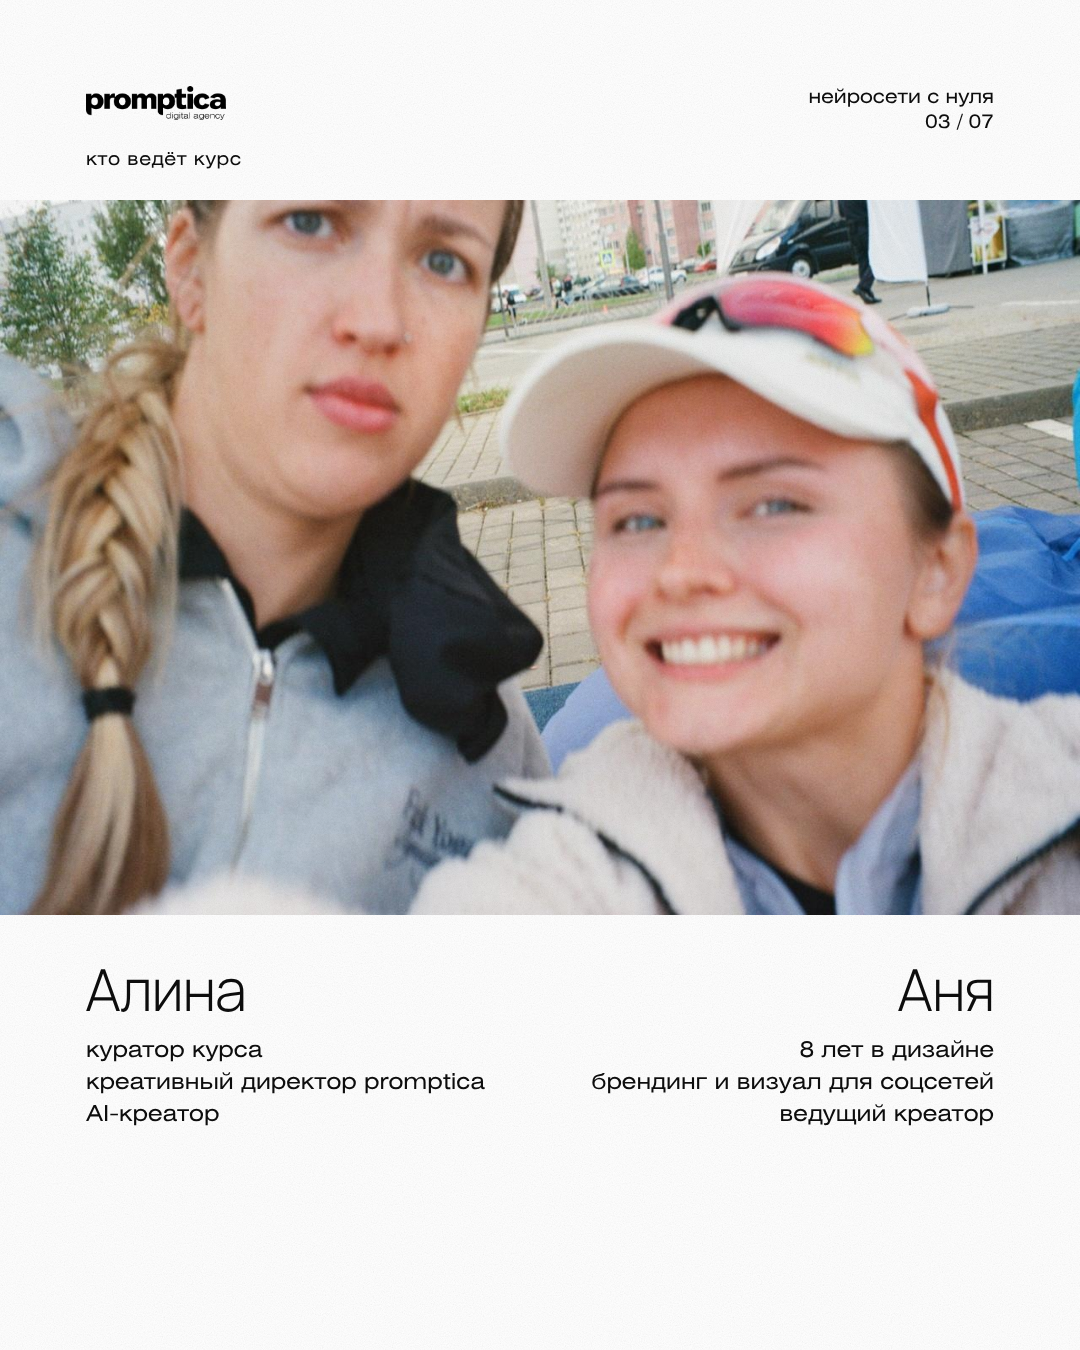
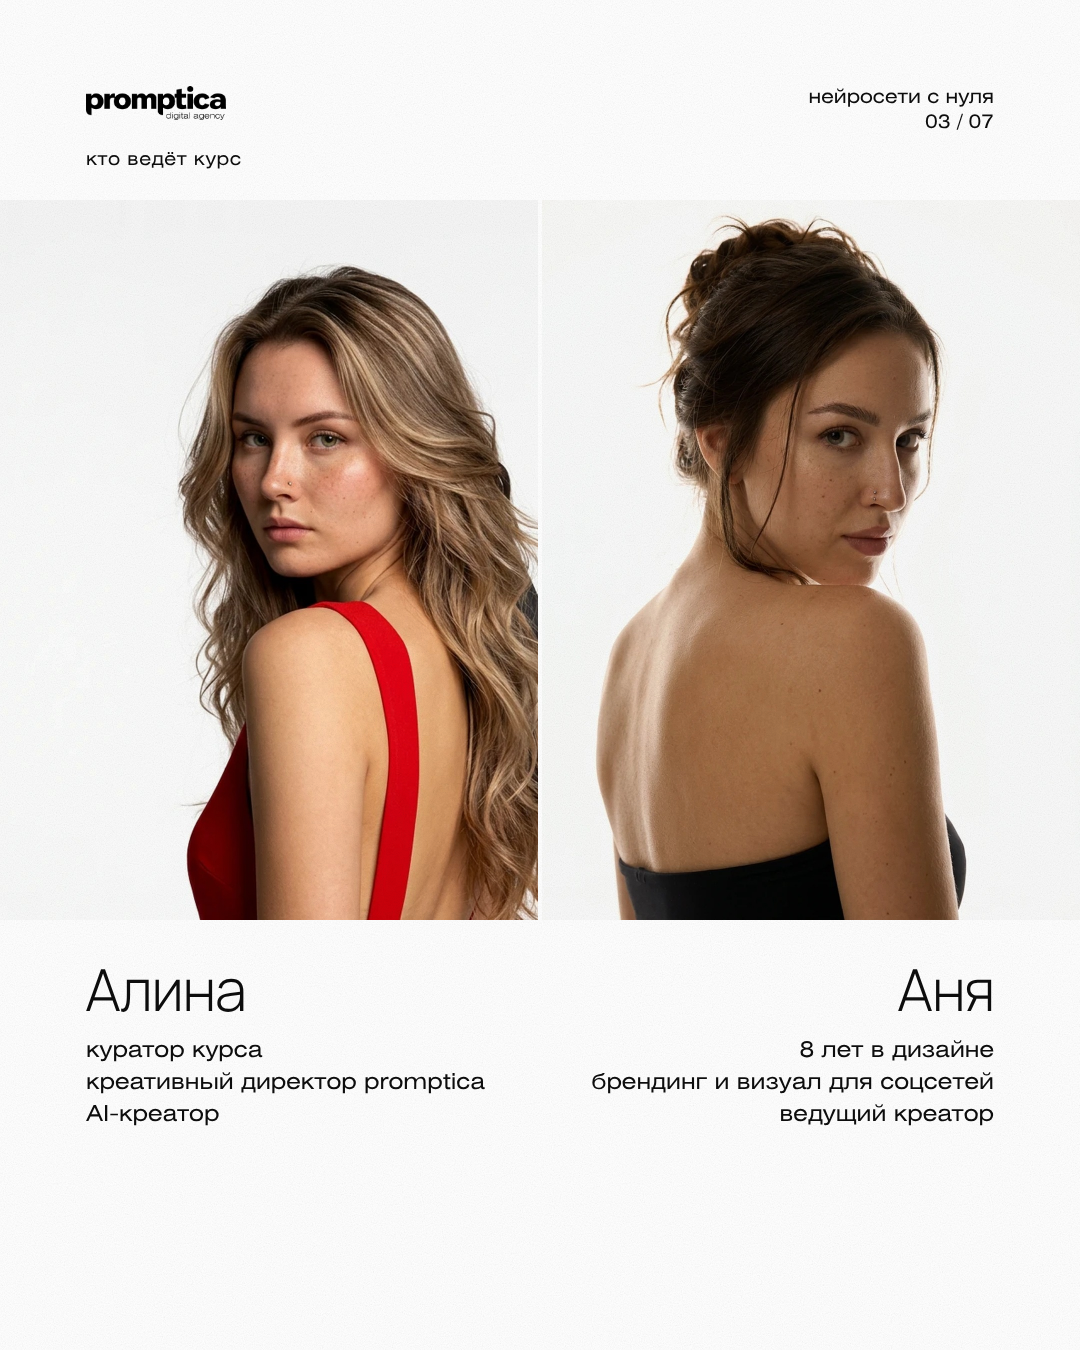
«Нейросети с нуля»: два портрета кураторов с выровненными головами (слайд 3)
Claude-Session: https://claude.ai/code/session_01V1NUh11xrVMcB1cs4GV2qz

diff --git a/carousels/promptica-course/03.html b/carousels/promptica-course/03.html
@@ -8,7 +8,8 @@
 <body>
   <div class="slide ">
     <div class="abs micro" style="left:86px;top:150px">кто ведёт курс</div>
-    <div class="ph" style="left:0px;top:200px;width:1080px;height:715px"><div class="hn">общее фото кураторов</div><img src="img/03-a.jpg" alt="" style="object-position:50% 40%" onerror="this.remove()"></div>
+    <div class="ph" style="left:0px;top:200px;width:538px;height:720px"><div class="hn">фото Алины</div><img src="img/03-a.jpg" alt="" style="object-position:50% 50%" onerror="this.remove()"></div>
+    <div class="ph" style="left:542px;top:200px;width:538px;height:720px"><div class="hn">фото Ани</div><img src="img/03-b.jpg" alt="" style="object-position:50% 50%" onerror="this.remove()"></div>
     <div class="abs" style="left:86px;top:960px;width:420px"><div class="light" style="font-size:58px;line-height:1">Алина</div>
       <div style="font-size:22px;line-height:1.45;margin-top:18px">куратор курса<br>креативный директор promptica<br>AI-креатор</div></div>
     <div class="abs" style="right:86px;top:960px;width:420px;text-align:right"><div class="light" data-opt="0" style="font-size:58px;line-height:1">Аня</div>

diff --git a/carousels/promptica-course/build.py b/carousels/promptica-course/build.py
@@ -49,7 +49,7 @@ page(2, f'''    <div class="abs" style="left:0;top:0;width:1080px;height:675px;b
     <div class="abs mrow" style="left:86px;top:615px;width:908px;color:#fff7e6"><span>короткие модули</span><span>своё расписание</span><span>в удобное время</span></div>''', '', 'logo_cream.png', ' style="color:#fff7e6"')
 # 3 — кураторы, минимализм
 page(3, '''    <div class="abs micro" style="left:86px;top:150px">кто ведёт курс</div>
-''' + ph(0,200,1080,715,'общее фото кураторов','03-a.jpg','50% 40%') + '''
+''' + ph(0,200,538,720,'фото Алины','03-a.jpg','50% 50%') + '\n' + ph(542,200,538,720,'фото Ани','03-b.jpg','50% 50%') + '''
     <div class="abs" style="left:86px;top:960px;width:420px"><div class="light" style="font-size:58px;line-height:1">Алина</div>
       <div style="font-size:22px;line-height:1.45;margin-top:18px">куратор курса<br>креативный директор promptica<br>AI-креатор</div></div>
     <div class="abs" style="right:86px;top:960px;width:420px;text-align:right"><div class="light" data-opt="0" style="font-size:58px;line-height:1">Аня</div>
